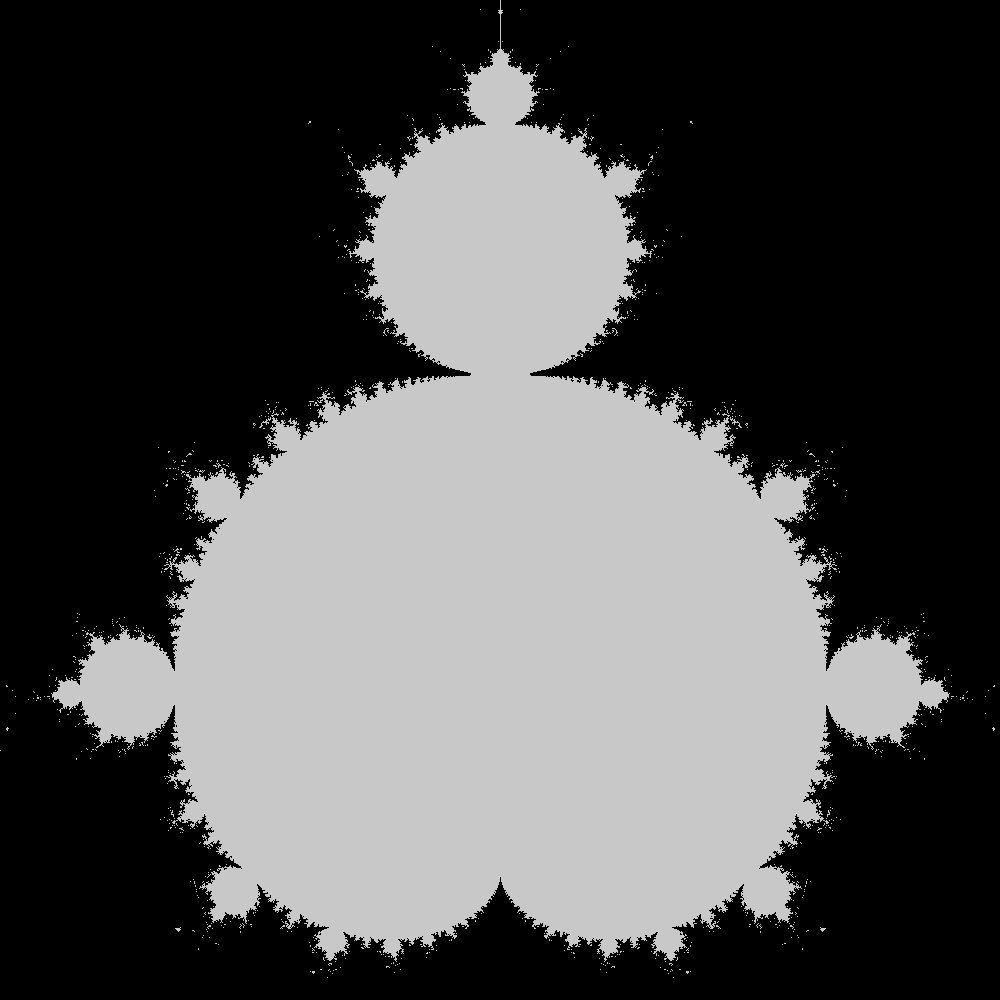
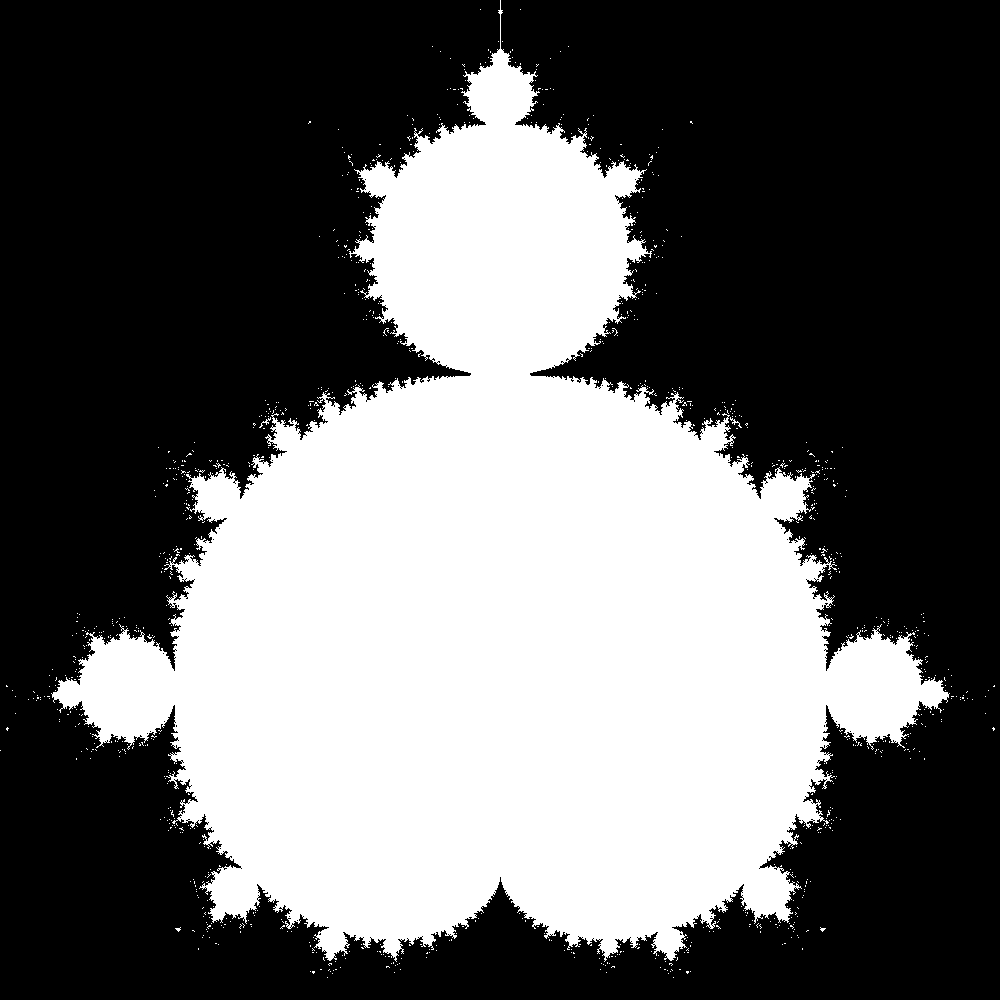
cleanup

diff --git a/brot.py b/brot.py
@@ -7,16 +7,18 @@ def mandlebrot_function(z : complex, c : complex) -> complex:
 
 
 SIZE = (1000,1000)
-mandlebrot_image = np.ones(SIZE, dtype=np.uint8)
+mandlebrot_image = np.empty(SIZE, dtype=np.uint8)
 
 
 for (x, y), _ in np.ndenumerate(mandlebrot_image):
 
+    # The following "magic" numbers determine resolution and which part of the set which will be shown
     c = complex((x - 500)/500 - 0.5, (y - 500)/500)
-    n_iteration = complex(0,0)
+
+    # Initialise Zn = 0 for Zn+1 = Zn^2 + C
+    n_iteration = 0
 
     iterations = 0
-
     while True:
         iterations+=1
 
@@ -27,9 +29,8 @@ for (x, y), _ in np.ndenumerate(mandlebrot_image):
             break
 
         if iterations > 50:
-            mandlebrot_image[x, y] = 200
+            mandlebrot_image[x, y] = 255
             break
 
-
-image = Image.fromarray(mandlebrot_image)
-image.save('output.png')
+# Save as image
+Image.fromarray(mandlebrot_image).save('output.png')
